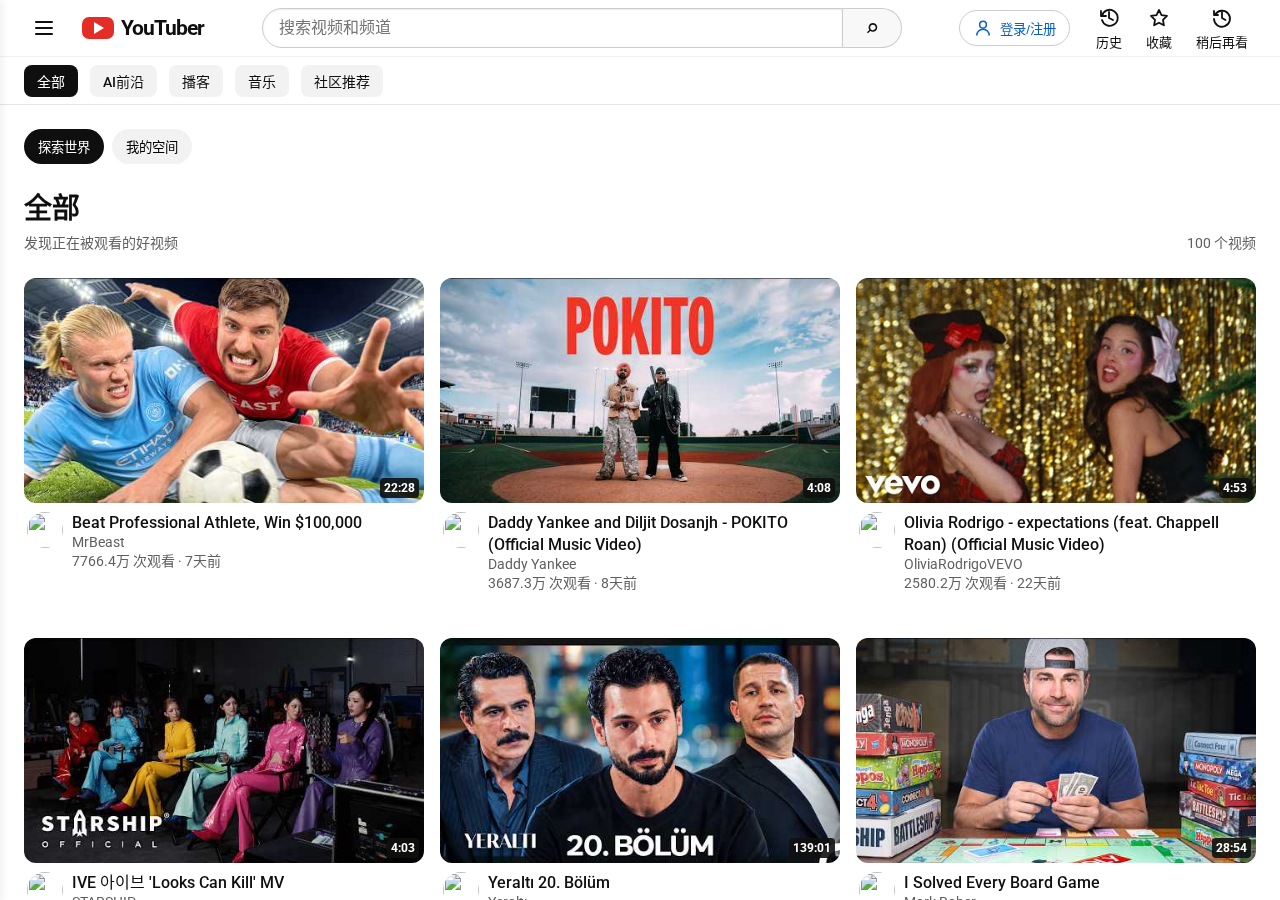
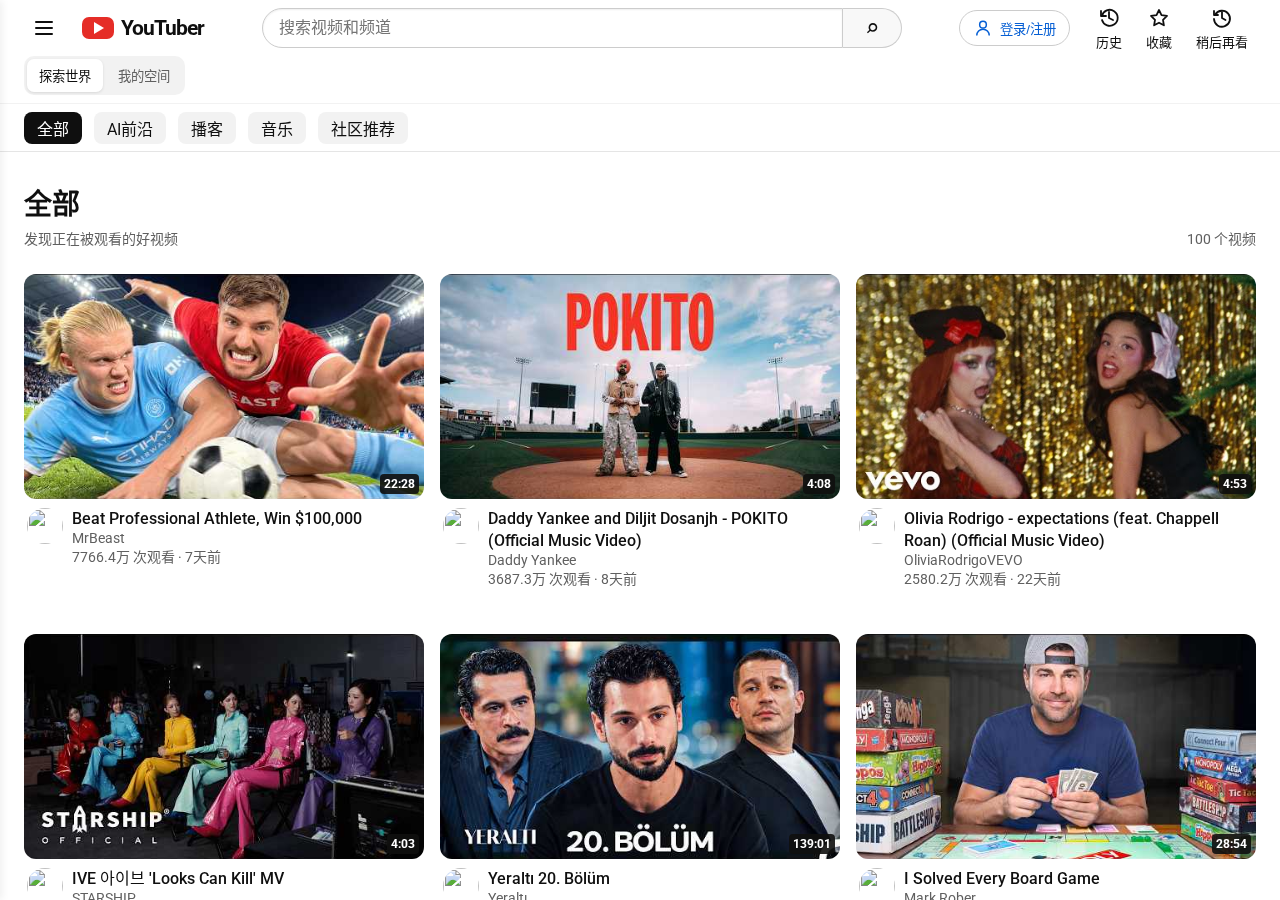
polish: prioritize myspace videos and compact mode-aware header

diff --git a/site/src/scripts/myspace.js b/site/src/scripts/myspace.js
@@ -18,11 +18,15 @@ function save(state) {
   track('myspace_save', { active_columns: checked.columns.filter(column => column.enabled).length });
   return true;
 }
-function sourceOptions(selected, claimed) {
-  return MYSPACE_SOURCES.filter(source => source.id === selected || !claimed.has(source.id)).map(source => `<option value="${source.id}"${source.id === selected ? ' selected' : ''}>${esc(source.label)}</option>`).join('');
+function avatar(video) {
+  const name = video.channel || '频道';
+  const letter = [...name.trim()][0] || '频';
+  let hash = 0; for (const char of name) hash = (hash * 31 + char.codePointAt(0)) >>> 0;
+  const color = ['#d14b4b', '#b06b2f', '#8a6d1d', '#4f8a3d', '#357a8a', '#5367a6', '#7a5795'][hash % 7];
+  return `<span class="channel-avatar channel-avatar-letter" style="background-color:${color}" aria-hidden="true">${esc(letter)}</span>`;
 }
 function card(video, source, base) {
-  return `<a class="video-card" href="${base}/v/${encodeURIComponent(video.id)}/?from=${encodeURIComponent(source.section)}"><div class="thumbnail"><img loading="lazy" src="https://i.ytimg.com/vi/${encodeURIComponent(video.id)}/hqdefault.jpg" alt=""><span class="duration">${duration(video.duration_seconds)}</span></div><div class="video-info"><div></div><div><h2 class="video-title">${esc(video.title)}</h2><p class="video-meta">${esc(video.channel)}</p><p class="video-meta">${esc(source.label)}</p></div></div></a>`;
+  return `<a class="video-card" href="${base}/v/${encodeURIComponent(video.id)}/?from=${encodeURIComponent(source.section)}"><div class="thumbnail"><img loading="lazy" src="https://i.ytimg.com/vi/${encodeURIComponent(video.id)}/hqdefault.jpg" alt=""><span class="duration">${duration(video.duration_seconds)}</span></div><div class="video-info">${avatar(video)}<div><h2 class="video-title">${esc(video.title)}</h2><p class="video-meta">${esc(video.channel)}</p><p class="video-meta">${esc(source.label)}</p></div></div></a>`;
 }
 function matching(videos, source) {
   const results = videos.filter(video => Array.isArray(video.sections) && video.sections.includes(source.section));
@@ -35,27 +39,100 @@ const shell = document.querySelector('[data-alpha-myspace]');
 const explore = document.querySelector('[data-explore-view]');
 const space = document.querySelector('[data-myspace-view]');
 if (enabled && shell && explore && space) {
+  const header = document.querySelector('.site-header');
+  const chipbar = header?.querySelector('.chipbar');
+  if (header && chipbar) { header.classList.add('alpha-video-header'); header.insertBefore(shell, chipbar); }
   shell.hidden = false;
-  let state = load(); let catalog = null;
+  let state = load();
+  let catalog;
+  let mode = 'myspace';
   const base = (document.querySelector('main')?.dataset.base || '').replace(/\/$/, '');
-  const persist = () => { if (save(state)) render(); };
-  const render = () => {
-    const active = state.columns.filter(column => column.enabled);
-    space.innerHTML = `<div class="myspace-heading"><div><h1>我的空间</h1><p>只使用你选择的现有栏目；不会根据观看记录自动调整。</p></div><span>${active.length}/${MAX_ACTIVE_COLUMNS} 个活动栏目</span></div><section class="myspace-editor" aria-label="管理我的空间"><h2>管理栏目</h2>${state.columns.map((column, index) => { const claimed = new Set(state.columns.filter(item => item.id !== column.id).map(item => item.source)); return `<div class="myspace-row"><label><input type="checkbox" data-enable="${column.id}" ${column.enabled ? 'checked' : ''}> 显示</label><select data-source="${column.id}" aria-label="选择栏目">${sourceOptions(column.source, claimed)}</select><button type="button" data-up="${column.id}" ${index === 0 ? 'disabled' : ''} aria-label="上移">↑</button><button type="button" data-down="${column.id}" ${index === state.columns.length - 1 ? 'disabled' : ''} aria-label="下移">↓</button><button type="button" data-remove="${column.id}">移除</button></div>`; }).join('')}<select data-add aria-label="添加栏目"><option value="">添加现有栏目…</option>${MYSPACE_SOURCES.filter(source => !state.columns.some(column => column.source === source.id)).map(source => `<option value="${source.id}">${esc(source.label)}</option>`).join('')}</select></section><div class="myspace-columns" data-myspace-columns><p class="myspace-loading">正在读取现有内容池…</p></div>`;
-    wire(); renderColumns(active);
+  const catalogPromise = fetch(`${base}/catalog.json`).then(response => response.ok ? response.json() : Promise.reject(new Error('catalog')));
+  const activeColumns = () => state.columns.filter(column => column.enabled);
+
+  if (chipbar) {
+    chipbar.querySelectorAll('a').forEach(link => link.setAttribute('data-explore-tab', ''));
+    chipbar.dataset.exploreTabs = chipbar.querySelector('nav')?.innerHTML || '';
+  }
+  const updateTabs = () => {
+    if (!chipbar) return;
+    const nav = chipbar.querySelector('nav');
+    if (!nav) return;
+    if (mode === 'explore') nav.innerHTML = chipbar.dataset.exploreTabs;
+    else nav.innerHTML = activeColumns().map((column, index) => `<button type="button" data-myspace-tab="${esc(column.id)}" class="${index === 0 ? 'active' : ''}">${esc(sourceById.get(column.source)?.label || column.source)}</button>`).join('');
+    nav.querySelectorAll('[data-myspace-tab]').forEach(tab => tab.addEventListener('click', () => {
+      const target = space.querySelector(`[data-myspace-column="${CSS.escape(tab.dataset.myspaceTab)}"]`);
+      if (target) {
+        const headerGap = 12;
+        const headerHeight = header?.getBoundingClientRect().height || 0;
+        target.style.scrollMarginTop = `${headerHeight + headerGap}px`;
+        target.scrollIntoView({ behavior: 'smooth', block: 'start' });
+      }
+      nav.querySelectorAll('[data-myspace-tab]').forEach(item => item.classList.toggle('active', item === tab));
+    }));
   };
-  const wire = () => {
-    space.querySelectorAll('[data-enable]').forEach(input => input.addEventListener('change', () => { const column = state.columns.find(item => item.id === input.dataset.enable); if (!column) return; if (input.checked && state.columns.filter(item => item.enabled).length >= MAX_ACTIVE_COLUMNS) { input.checked = false; return; } column.enabled = input.checked; persist(); }));
-    space.querySelectorAll('[data-source]').forEach(select => select.addEventListener('change', () => { const column = state.columns.find(item => item.id === select.dataset.source); if (column && sourceById.has(select.value)) { column.id = select.value; column.source = select.value; persist(); } }));
-    space.querySelectorAll('[data-up],[data-down]').forEach(button => button.addEventListener('click', () => { const id = button.dataset.up || button.dataset.down; const index = state.columns.findIndex(item => item.id === id); const target = button.dataset.up ? index - 1 : index + 1; if (index >= 0 && state.columns[target]) [state.columns[index], state.columns[target]] = [state.columns[target], state.columns[index]]; persist(); }));
-    space.querySelectorAll('[data-remove]').forEach(button => button.addEventListener('click', () => { state.columns = state.columns.filter(column => column.id !== button.dataset.remove); if (!state.columns.length) state = defaultState(); persist(); }));
-    space.querySelector('[data-add]')?.addEventListener('change', event => { const source = event.target.value; if (!source || state.columns.length >= MYSPACE_SOURCES.length) return; state.columns.push({ id: source, source, enabled: state.columns.filter(item => item.enabled).length < MAX_ACTIVE_COLUMNS }); persist(); });
+  const persist = keepEditor => { if (save(state)) render(keepEditor); };
+  const renderEditor = () => {
+    const dialog = space.querySelector('[data-myspace-editor]');
+    if (!dialog) return;
+    const available = MYSPACE_SOURCES.filter(source => !state.columns.some(column => column.source === source.id));
+    dialog.innerHTML = `<div class="myspace-editor-inner"><div class="myspace-editor-title"><h2>管理栏目</h2><button class="myspace-editor-close" type="button" data-editor-close aria-label="关闭">×</button></div><p class="myspace-editor-note">显示至多 ${MAX_ACTIVE_COLUMNS} 个栏目；顺序会同步到上方标签。</p>${state.columns.map((column, index) => `<div class="myspace-row"><label><input type="checkbox" data-enable="${esc(column.id)}" ${column.enabled ? 'checked' : ''} aria-label="显示 ${esc(sourceById.get(column.source)?.label || column.source)}"></label><span class="myspace-row-name">${esc(sourceById.get(column.source)?.label || column.source)}</span><button type="button" data-up="${esc(column.id)}" ${index === 0 ? 'disabled' : ''} aria-label="上移">↑</button><button type="button" data-down="${esc(column.id)}" ${index === state.columns.length - 1 ? 'disabled' : ''} aria-label="下移">↓</button><button type="button" data-remove="${esc(column.id)}" aria-label="移除">×</button></div>`).join('')}<div class="myspace-add"><select data-add aria-label="添加栏目"><option value="">添加现有栏目…</option>${available.map(source => `<option value="${source.id}">${esc(source.label)}</option>`).join('')}</select></div></div>`;
+    dialog.querySelector('[data-editor-close]')?.addEventListener('click', () => dialog.close());
+    dialog.querySelectorAll('[data-enable]').forEach(input => input.addEventListener('change', () => {
+      const column = state.columns.find(item => item.id === input.dataset.enable);
+      if (!column) return;
+      if (input.checked && activeColumns().length >= MAX_ACTIVE_COLUMNS) { input.checked = false; return; }
+      column.enabled = input.checked; persist(true);
+    }));
+    dialog.querySelectorAll('[data-up],[data-down]').forEach(button => button.addEventListener('click', () => {
+      const id = button.dataset.up || button.dataset.down;
+      const index = state.columns.findIndex(item => item.id === id);
+      const target = button.dataset.up ? index - 1 : index + 1;
+      if (index >= 0 && state.columns[target]) [state.columns[index], state.columns[target]] = [state.columns[target], state.columns[index]];
+      persist(true);
+    }));
+    dialog.querySelectorAll('[data-remove]').forEach(button => button.addEventListener('click', () => {
+      state.columns = state.columns.filter(column => column.id !== button.dataset.remove);
+      if (!state.columns.length) state = defaultState();
+      persist(true);
+    }));
+    dialog.querySelector('[data-add]')?.addEventListener('change', event => {
+      const source = event.target.value;
+      if (!source || state.columns.length >= MYSPACE_SOURCES.length) return;
+      state.columns.push({ id: source, source, enabled: activeColumns().length < MAX_ACTIVE_COLUMNS });
+      persist(true);
+    });
   };
-  const renderColumns = async active => {
+  const renderColumns = async () => {
     const host = space.querySelector('[data-myspace-columns]');
-    try { catalog ||= await fetch(`${base}/catalog.json`).then(response => response.ok ? response.json() : Promise.reject(new Error('catalog'))); }
+    if (!host) return;
+    host.innerHTML = '<p class="myspace-loading">正在读取现有内容池…</p>';
+    try { catalog ||= await catalogPromise; if (!Array.isArray(catalog)) throw new Error('catalog'); }
     catch { host.innerHTML = '<p class="myspace-loading">内容目录暂时无法加载，请稍后再试。</p>'; return; }
-    host.innerHTML = active.map(column => { const source = sourceById.get(column.source); const videos = matching(catalog, source).slice(0, 8); return `<section class="myspace-column"><h2>${esc(source.label)}</h2>${videos.length ? `<div class="video-grid">${videos.map(video => card(video, source, base)).join('')}</div>` : '<p class="myspace-loading">该栏目暂时没有匹配视频。</p>'}</section>`; }).join('') || '<p class="myspace-loading">请在上方添加一个栏目。</p>';
+    host.innerHTML = activeColumns().map(column => {
+      const source = sourceById.get(column.source);
+      const videos = matching(catalog, source).slice(0, 8);
+      return `<section class="myspace-column" data-myspace-column="${esc(column.id)}"><h2>${esc(source.label)}</h2>${videos.length ? `<div class="video-grid">${videos.map(video => card(video, source, base)).join('')}</div>` : '<p class="myspace-loading">该栏目暂时没有匹配视频。</p>'}</section>`;
+    }).join('') || '<p class="myspace-loading">请在管理栏目中添加一个栏目。</p>';
   };
-  shell.querySelectorAll('[data-mode]').forEach(button => button.addEventListener('click', () => { const mine = button.dataset.mode === 'myspace'; explore.hidden = mine; space.hidden = !mine; shell.querySelectorAll('[data-mode]').forEach(item => item.setAttribute('aria-pressed', String(item === button))); track('mode_switch', { mode: mine ? 'myspace' : 'explore' }); if (mine) render(); }));
+  const render = (keepEditor = false) => {
+    space.innerHTML = '<div class="myspace-heading"><div><h1>我的空间</h1><p>你的栏目、你的顺序。只使用现有内容池。</p></div><button class="myspace-manage" type="button" data-myspace-manage aria-label="管理栏目" title="管理栏目">⚙</button></div><dialog class="myspace-editor" data-myspace-editor aria-label="管理我的空间"></dialog><div class="myspace-columns" data-myspace-columns><p class="myspace-loading">正在读取现有内容池…</p></div>';
+    space.querySelector('[data-myspace-manage]')?.addEventListener('click', () => { renderEditor(); space.querySelector('[data-myspace-editor]')?.showModal(); });
+    renderColumns(); updateTabs();
+    if (keepEditor) { renderEditor(); space.querySelector('[data-myspace-editor]')?.showModal(); }
+  };
+  const setMode = next => {
+    mode = next;
+    const mine = mode === 'myspace';
+    explore.hidden = mine; space.hidden = !mine;
+    shell.querySelectorAll('[data-mode]').forEach(button => button.setAttribute('aria-pressed', String(button.dataset.mode === mode)));
+    updateTabs();
+    if (mine) render();
+  };
+  shell.querySelectorAll('[data-mode]').forEach(button => button.addEventListener('click', () => {
+    const next = button.dataset.mode;
+    if (next === mode) return;
+    setMode(next); track('mode_switch', { mode: next });
+  }));
+  setMode('explore');
 }

diff --git a/docs/alpha-test-results.md b/docs/alpha-test-results.md
@@ -1,3 +1,44 @@
+# Alpha UI 打磨轮验收（最新）
+
+日期：2026-11-08（Asia/Shanghai）。本轮仍只在 `alpha` 分支本地修改和提交，未推送、部署、修改数据库或安装任务。
+
+## 本轮交付
+
+- 我的空间默认显示视频分区，齿轮按钮按需打开紧凑栏目管理弹窗；复选、上下移动、移除与添加操作保留。
+- 一级模式分段控件移至 header，二级标签随模式切换；我的空间标签按用户栏目顺序显示并可滚动定位。
+- 390px 搜索左侧黑边消失，搜索行与模式控件间距实测 2px；公共标签完整可见且横向可滚动，没有原先大块空白。
+- 内容池预加载；本地样本切换到视频出现耗时 61–81ms（非线上 SLA）。截图均等待视频卡片出现，未使用加载中占位画面。
+- 保持全站初始入口为探索世界，不改变既定产品决策。
+
+## 模型及发现的修复
+
+主 UI 调整由 Codex **gpt-5.6-terra** 完成。两次窄范围跟进使用 **gpt-5.6-luna**：恢复探索世界初始默认；修复标签滚动时分区标题被 sticky header 遮挡。后者浏览器复测：390px 标题顶端 210px、header 底端 198px；768/1280 标题顶端 164px、header 底端 152px，均留 12px 间距。
+
+## 最新验收
+
+| 检查 | 结果 |
+| --- | --- |
+| Astro build（504 页，/youtuber） | 通过 |
+| Python 全量测试 | 70 passed |
+| Myspace schema / diff 格式 | 通过 |
+| PUBLIC_ALPHA_MYSPACE=false 构建关闭新控件 | 通过，随后恢复默认构建 |
+| 390 / 768 / 1280 完整浏览器清单 | 87 / 87 通过 |
+| 打磨专项浏览器检查 | 25 / 25 通过 |
+| 无刷新双模式 / 探索列表不变 | 通过 |
+| 栏目选择、增删、排序、最多5项活动、刷新保留、异常数据回退 | 通过 |
+| 模式标签随重排同步、跳转不被头部遮挡 | 通过 |
+| 视频先显示、管理弹窗默认关闭、Esc关闭、弹窗在屏幕内 | 通过 |
+| 手机登录单行、三个图标可见、无横向页面溢出 | 通过 |
+| 搜索、视频详情官方iframe、本地历史/收藏/稍后看增删、关注切换、登录框 | 通过 |
+| 用户操作不隐式改栏目、mode_switch / myspace_save stub | 通过 |
+| 五张更新截图人工查看，另查看768px | 通过；无重叠，编辑器紧凑，视频可见 |
+
+截图仍是下文列出的五个绝对路径，本轮覆盖更新。
+
+剩余边界：未使用真实账号，没有验证真实认证往返、云同步、邮件或视频实际播放；只验证官方 iframe 挂载。探索模式原有外部头像偶发加载失败仍可见；我的空间使用字母头像回退。配置仍为当前浏览器本地保存。预览验收后停止，本次本地提交可独立 revert，生产上线仍需单独授权。
+
+---
+
 # Alpha 本地测试结果
 
 日期：2026-11-08（Asia/Shanghai）。验证位于 box 常规 Shell，worktree `/workspace/codex/yt-recommended-alpha`，分支 `alpha`。仅本地提交；未 push、部署、迁移数据库或安装定时任务。Codex 的沙盒限制不影响本轮常规 Shell 验证。
